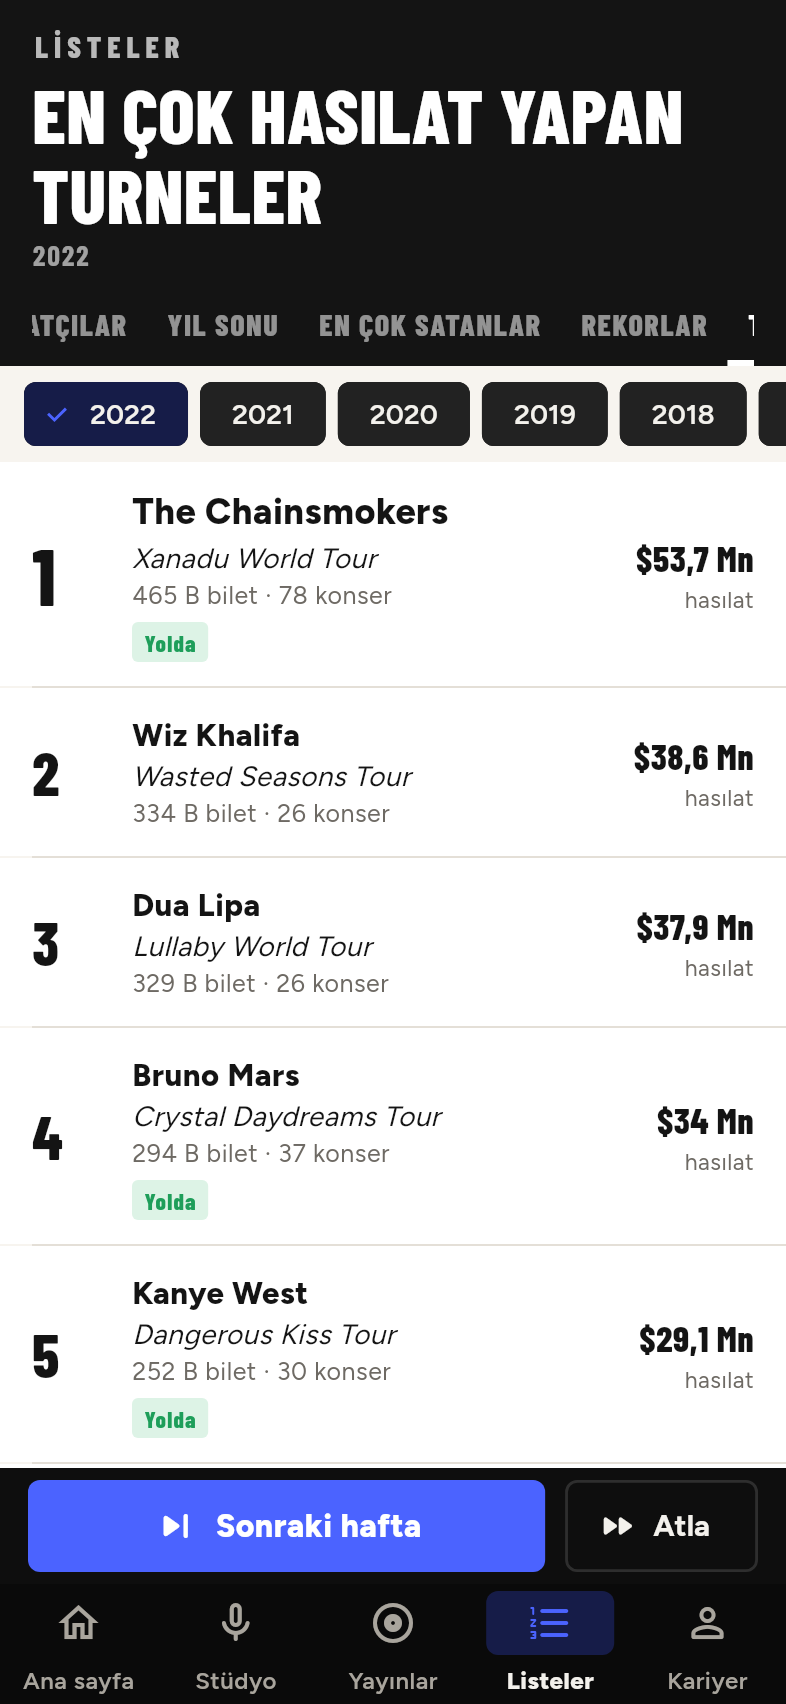
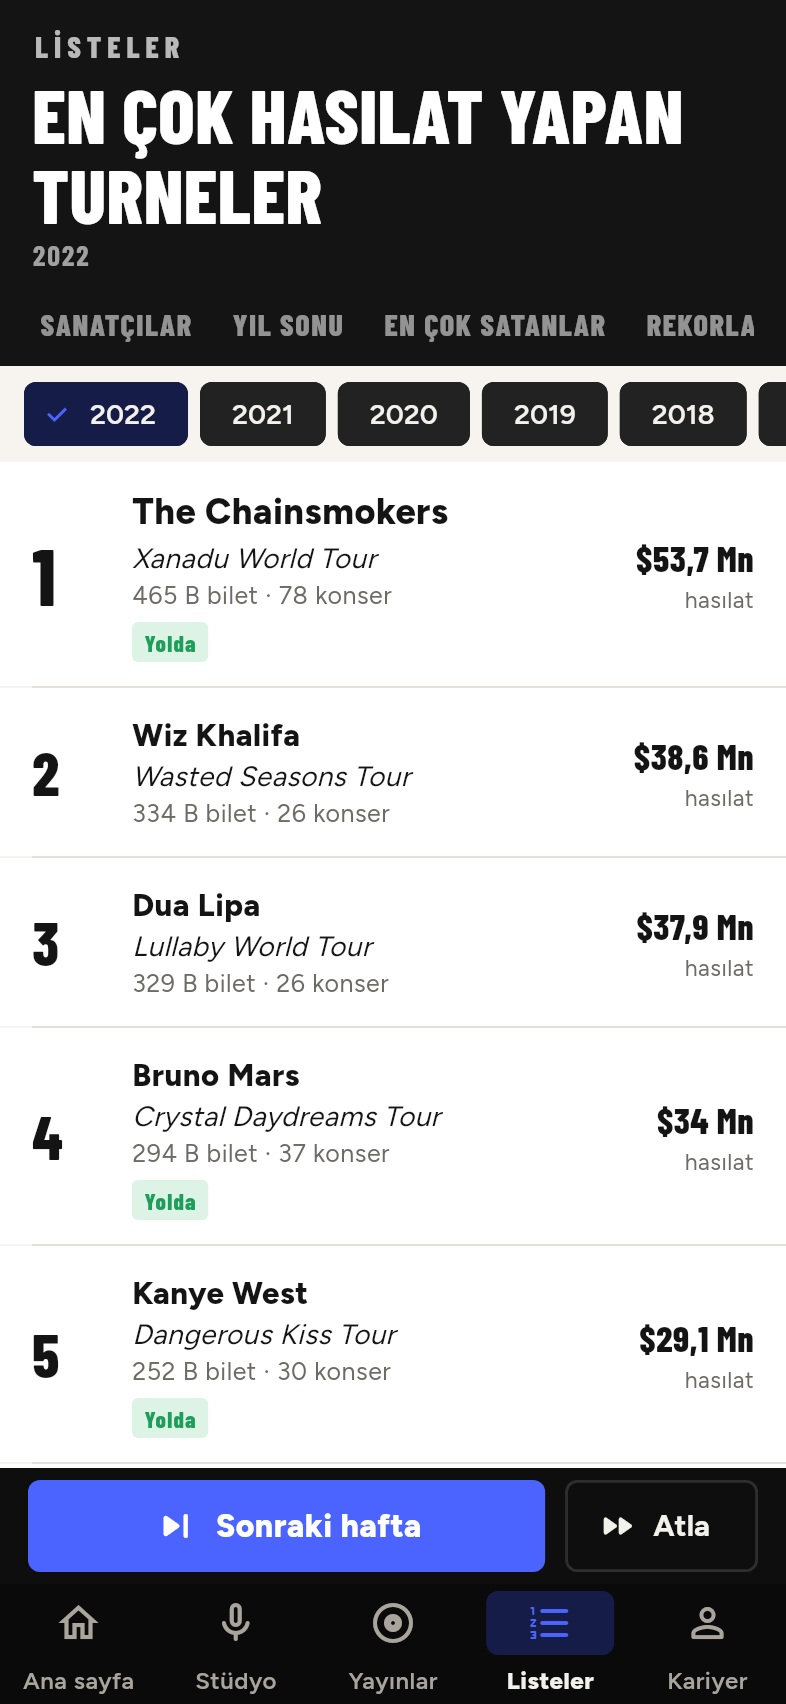
US Streaming Songs and Digital Song Sales charts; balance check (K166, K167)
Two Billboard-style component charts of 50: US streams alone (2013+)
and US downloads alone (2005+), with their tabs from their first year,
chart records on song pages and peak/entry news. Old saves start them
empty.

Balance probe after K152-K166 (normal, 3 worlds): superstar 2016 and
unknown 2010 careers match K151.

Claude-Session: https://claude.ai/code/session_01UqeaYiXbKvrTFgHV44HcjP

Changed region(s): [[0.0305, 0.1866, 0.9771, 0.2177]]

diff --git a/app/lib/screens/charts_tab.dart b/app/lib/screens/charts_tab.dart
@@ -30,6 +30,8 @@ const _magazineCharts = [
   Charts.ukSongs,
   Charts.ukAlbums,
   Charts.usRadio,
+  Charts.usStreaming,
+  Charts.usDigital,
 ];
 
 /// The box-office board in the chart tabs (docs K77).
@@ -215,12 +217,12 @@ class _ChartsTabState extends State<ChartsTab> {
                               : _chart == _bestSellersChart
                                   ? l.chartBestSellers
                                   : _chart == _recordsChart
-                                  ? l.chartRecords
-                                  : _chart == _artistsChart
-                                      ? l.chartTopArtists
-                                      : _chart == _musicShowChart
-                                          ? l.chartMusicShow
-                                          : fmt.chart(_chart))
+                                      ? l.chartRecords
+                                      : _chart == _artistsChart
+                                          ? l.chartTopArtists
+                                          : _chart == _musicShowChart
+                                              ? l.chartMusicShow
+                                              : fmt.chart(_chart))
                       .toUpperCase(),
                   style: const TextStyle(
                       fontFamily: AppFonts.condensed,
@@ -236,15 +238,16 @@ class _ChartsTabState extends State<ChartsTab> {
                               : _chart == _bestSellersChart
                                   ? l.bestSellersSub
                                   : _chart == _recordsChart
-                                  ? (_records == null
-                                      ? ''
-                                      : l.recordsSince(_recordsSince))
-                                  : _chart == _artistsChart ||
-                                          _chart == _musicShowChart
-                                      ? l.weekOf(DateFormat.yMMMMd(l.localeName)
-                                          .format(chartDate(
-                                              context.career.week - 1)))
-                                      : l.weekOf(date))
+                                      ? (_records == null
+                                          ? ''
+                                          : l.recordsSince(_recordsSince))
+                                      : _chart == _artistsChart ||
+                                              _chart == _musicShowChart
+                                          ? l.weekOf(
+                                              DateFormat.yMMMMd(l.localeName)
+                                                  .format(chartDate(
+                                                      context.career.week - 1)))
+                                          : l.weekOf(date))
                       .toUpperCase(),
                   style: const TextStyle(
                       fontFamily: AppFonts.condensed,
@@ -259,11 +262,14 @@ class _ChartsTabState extends State<ChartsTab> {
                   scrollDirection: Axis.horizontal,
                   children: [
                     for (final id in _magazineCharts)
-                      _ChartTab(
-                        label: fmt.chartShort(id),
-                        selected: _chart == id,
-                        onTap: () => _select(id),
-                      ),
+                      // The streaming and download charts start in their
+                      // year (docs K166).
+                      if (Charts.all[id].activeIn(context.career.week - 1))
+                        _ChartTab(
+                          label: fmt.chartShort(id),
+                          selected: _chart == id,
+                          onTap: () => _select(id),
+                        ),
                     // K-pop artists get their music show (docs K114).
                     if (context.career.player.genre == MusicShow.genre)
                       _ChartTab(

diff --git a/packages/game/test/game_test.dart b/packages/game/test/game_test.dart
@@ -1404,6 +1404,39 @@ void main() {
       g.close();
     });
 
+    test('US streaming and download charts (K166)', () {
+      var g = GameSession.start(slots, _setup(startYear: 2010));
+      final ids = [for (final c in g.activeCharts) c.id];
+      expect(ids, contains(Charts.usDigital));
+      expect(ids, isNot(contains(Charts.usStreaming)));
+      g.close();
+      g = GameSession.start(
+          slots,
+          _setup(
+              startYear: 2015,
+              tier: StartTier.superstar,
+              money: StartMoney.millionaire,
+              premium: true));
+      final p = g.world.player!;
+      p.moneyCents = 1 << 40;
+      p.creativeEnergy = 100;
+      final id = g.writeSong(budget: BudgetTier.high).id;
+      g.releaseSingle(id);
+      g.advanceWeeks(2, stop: SkipStop.never);
+      final streaming = g.chart(Charts.usStreaming).rows;
+      final digital = g.chart(Charts.usDigital).rows;
+      expect(streaming, hasLength(50));
+      expect(digital, hasLength(50));
+      // Ranked by US streams alone.
+      for (var i = 1; i < streaming.length; i++) {
+        expect(streaming[i].points, lessThanOrEqualTo(streaming[i - 1].points));
+      }
+      // Its points are its US streams.
+      final top = streaming.first;
+      expect(top.points, closeTo(top.streams, top.streams * 0.01));
+      g.close();
+    });
+
     test('an album rollout (K165)', () {
       var g = GameSession.start(
           slots,

diff --git a/packages/simulation_core/lib/src/config/charts.dart b/packages/simulation_core/lib/src/config/charts.dart
@@ -13,7 +13,11 @@ enum ChartMarket {
   platformEurope,
 
   /// US radio airplay audience (docs K129).
-  usRadio
+  usRadio,
+
+  /// US streams, and US download sales (docs K166).
+  usStreaming,
+  usDigital,
 }
 
 /// A chart definition. Names are fictional (no real chart or platform
@@ -63,6 +67,10 @@ abstract final class Charts {
 
   /// US radio airplay (docs K129).
   static const usRadio = 9;
+
+  /// The Hot 100's parts (docs K166): streams alone, downloads alone.
+  static const usStreaming = 10;
+  static const usDigital = 11;
 
   static const all = <ChartDef>[
     ChartDef(
@@ -130,9 +138,23 @@ abstract final class Charts {
         kind: ChartKind.songs,
         market: ChartMarket.usRadio,
         size: 50),
+    ChartDef(
+        id: usStreaming,
+        key: 'chart.us.streaming',
+        kind: ChartKind.songs,
+        market: ChartMarket.usStreaming,
+        size: 50,
+        startYear: 2013),
+    ChartDef(
+        id: usDigital,
+        key: 'chart.us.digital',
+        kind: ChartKind.songs,
+        market: ChartMarket.usDigital,
+        size: 50,
+        startYear: 2005),
   ];
 
-  static const count = 10;
+  static const count = 12;
 
   /// Song charts whose positions feed back into exposure and dormancy.
   static const mainSongCharts = [usSongs, ukSongs, globalSongs];

diff --git a/app/test/screenshots_test.dart b/app/test/screenshots_test.dart
@@ -707,6 +707,16 @@ void main() {
     await tester.pumpAndSettle();
     await tester.tap(_ci('US Radio'));
     await shot(tester, '08i_radio_chart');
+    // The Hot 100's parts (docs K166).
+    final streamingTab = _ci('US Streaming');
+    await tester.scrollUntilVisible(streamingTab, 200,
+        scrollable: find
+            .byWidgetPredicate((w) =>
+                w is Scrollable && w.axisDirection == AxisDirection.right)
+            .first);
+    await tester.pumpAndSettle();
+    await tester.tap(streamingTab);
+    await shot(tester, '08m_streaming_chart');
     await tab(tester, 'Career');
     // Record money by source (docs K145).
     final income = _ci('Record money by source');

diff --git a/app/lib/core/format.dart b/app/lib/core/format.dart
@@ -212,6 +212,8 @@ class Fmt {
           l.chartPlatform(platformName, l.regionNorthAmerica),
         Charts.platformEurope => l.chartPlatform(platformName, l.regionEurope),
         Charts.usRadio => l.chartUsRadio,
+        Charts.usStreaming => l.chartUsStreaming,
+        Charts.usDigital => l.chartUsDigital,
         _ => '?',
       };
 
@@ -230,6 +232,8 @@ class Fmt {
         Charts.ukAlbums => l.chartShortUkAlbums,
         Charts.globalAlbums => l.chartShortGlobalAlbums,
         Charts.usRadio => l.chartShortUsRadio,
+        Charts.usStreaming => l.chartShortUsStreaming,
+        Charts.usDigital => l.chartShortUsDigital,
         _ => chart(id),
       };
 

diff --git a/packages/game/lib/src/views.dart b/packages/game/lib/src/views.dart
@@ -1053,7 +1053,9 @@ class ChartView {
     // A by-region number as the chart's market sees it.
     double inMarket(double Function(int r) byRegion) => switch (market) {
           ChartMarket.us ||
-          ChartMarket.usRadio =>
+          ChartMarket.usRadio ||
+          ChartMarket.usStreaming ||
+          ChartMarket.usDigital =>
             CountryShares.usOfNorthAmerica(artist.homeCountry) *
                 byRegion(Region.northAmerica.index),
           ChartMarket.uk => CountryShares.ukOfEurope(artist.homeCountry) *

diff --git a/packages/simulation_core/lib/src/simulator.dart b/packages/simulation_core/lib/src/simulator.dart
@@ -719,6 +719,9 @@ class Simulator {
       songPts[Charts.platformEurope][i] = st[eu];
       // Radio airplay: the US audience of its plays (docs K129).
       songPts[Charts.usRadio][i] = us * rd[na];
+      // The Hot 100's parts (docs K166).
+      songPts[Charts.usStreaming][i] = us * st[na];
+      songPts[Charts.usDigital][i] = us * dw[na];
       // A song caught with bought streams counts half for a while.
       final weight = StreamingTools.chartWeight(w, s);
       if (weight < 1) {

diff --git a/packages/simulation_core/lib/src/world.dart b/packages/simulation_core/lib/src/world.dart
@@ -327,6 +327,8 @@ class World {
     return switch (market) {
       ChartMarket.us ||
       ChartMarket.usRadio ||
+      ChartMarket.usStreaming ||
+      ChartMarket.usDigital ||
       ChartMarket.platformNorthAmerica =>
         (market != ChartMarket.platformNorthAmerica
                 ? CountryShares.usOfNorthAmerica(home)

diff --git a/packages/game/lib/src/game_session.dart b/packages/game/lib/src/game_session.dart
@@ -3038,6 +3038,8 @@ class GameSession {
     Charts.ukSongs,
     Charts.globalSongs,
     Charts.usRadio,
+    Charts.usStreaming,
+    Charts.usDigital,
   ];
   static const _albumCharts = [
     Charts.usAlbums,

diff --git a/tools/l10n/gen_arb.py b/tools/l10n/gen_arb.py
@@ -1244,6 +1244,10 @@ k('radioUpgradeHint','Raise the radio push while stations are still deciding (fi
 # US radio chart (K129)
 k('chartUsRadio','US Radio Songs','ABD Radyo Şarkıları')
 k('chartShortUsRadio','US Radio','ABD Radyo')
+k('chartUsStreaming','US Streaming Songs','ABD Streaming Şarkıları')
+k('chartShortUsStreaming','US Streaming','ABD Streaming')
+k('chartUsDigital','US Digital Song Sales','ABD Dijital Şarkı Satışları')
+k('chartShortUsDigital','US Digital','ABD Dijital')
 k('radioChartLine','{audience} listeners on the radio','Radyoda {audience} dinleyici', audience='String')
 
 # Streamify audience (K130)

diff --git a/docs/README.md b/docs/README.md
@@ -190,6 +190,8 @@ Bu kararlar alınmıştır; değiştirmek için bilinçli bir revizyon gerekir.
 | K163 | **Dijital mağazada indirim (Born This Way hamlesi, 2004+):** Çıkmış bir albümün sayfasında "Fruit Tunes'ta indirim": bir haftalığına **$7,99** (fiyatın %80'i, dijital satış ×1,6), **$3,99** (%40, ×4) ya da **$0,99** (%12, ×12). Albüm satışlarının dijital payı yıla göre (2004 %1, 2008 %15, 2010 %27, 2012 %37, 2014–16 %41–42, 2019 %35); yalnız o pay katlanır, fiziksel satış aynı kalır. O haftaki kopyalar ortalama daha az öder (örnek, 2012: haftada 29K → 155K kopya, gelir biraz artıyor ama kopya başına çok düşüyor). Sekiz haftada bir; katalogdaki albümü yeniden canlandırır. **2011 kuralı:** Billboard, ilk 4 haftasında $3,49'un altında satılan albümleri saymadığı için $0,99 o haftalarda kapalı. Albüm sayfasında üç düğme, "Bu hafta indirimde" etiketi ve neden kapalı olduğu. Kayıt v46. |
 | K164 | **Ücretli hayran kulübü (Patreon gibi):** Kariyer sekmesinde "Hayran kulübü": 20K çekirdek hayranla, $20K kurulumla açılır. Aylık ücret **$3 / $5 / $10**; üye sayısı her hafta tutabileceği sayıya %10 yaklaşır: çekirdek hayran × (0,4 + sadakat) × katılım oranı (%3 / %2 / %1) × **aktiflik** (26 haftadan uzun yeni çıkış yoksa yılda %100 düşerek en az %40). Gelir haftada üye × aylık ücret × 12/52, doğrudan sanatçıya gelir (plak şirketi payı ve avans geri ödemesi yok, menajer payı var). Üyeler sadakati besler (üyeler hayranların %2'si ve üstündeyse haftada +0,002) ve her yeni albüm ya da EP'yi **önceden sipariş eder** (üyelerin %60'ı, ilk haftaya). Ücret istendiği zaman değiştirilebilir; sayfada her ücretle tahmini üye sayısı. 1K, 10K, 100K, 1M üyede haber. Örnek (süperstar, $5): 12 haftada ~45K üye, haftada ~$50K. Kayıt: dünya meta 'fanClub'. |
 | K165 | **Albüm çıkış planı:** Oyuncunun albüm ve EP'lerinde (canlı albüm ve Greatest Hits hariç) altı adım: **ilk single** albümden en az 4 hafta önce (son 26 hafta içinde), **ikinci single** (aynı pencerede iki single), **duyuru** en az 4 hafta önce, **klip** (şarkılarından birine), **TikTak tanıtımı** (2019+, snippet) ve **editörlere öneri** (streaming döneminde). Albüm çıktığında yapılan adımların payı kadar heyecan eklenir: eksiksiz plan **+%15** (fan satışı ve olay alıcıları bununla büyür). Sürpriz çıkış duyuru adımını kaçırır ama kendi şok etkisini alır (K124). Yayınlar sekmesinde yaklaşan albümün planı (ileri tarihli single'lar zamanında çıkacaksa sayılır), albüm sayfasında sonuç ("Çıkış planı 5/6: çıkışta +%13 heyecan") ve adım etiketleri. Kayıt v47. |
+| K166 | **ABD Streaming ve Dijital Satış listeleri (Billboard'un alt listeleri):** Listeler sekmesinde iki yeni 50'lik liste: **ABD Streaming Şarkıları** (2013+, yalnız ABD stream'leri) ve **ABD Dijital Şarkı Satışları** (2005+, yalnız ABD indirmeleri). Hot 100'ün parçaları: bir şarkı radyoda zayıf ama stream'de güçlü olabilir. Kendi yılından önce sekmesi görünmez. Şarkı sayfasındaki liste kayıtları, zirve ve giriş haberleri bu listeler için de çalışır. Eski kayıtlarda bu listeler boş başlar. |
+| K167 | **Denge kontrolü (K152–K166 sonrası, career_probe, normal mod, 3 dünya, medyan):** Süperstar 2016: yıl 1–3 #1 sayısı 4 → 2 → 1, albüm ilk haftası global 1,0–1,1M (ABD 586–617K; çıkış planı ile biraz yukarı), para 5,2M → 18,0M (K151: 17,8M). Bilinmeyen 2010: 3. yıl en iyi ABD #3 ve 132K hayran, 4. yılda ABD #1, albüm ilk haftası 133K, şirket seviyesi 2; 5. yılda #1'ler ve 1,3M hayran. Varsayılan kariyer dengesi K151 ile aynı; yeni araçlar oyuncunun seçimi. |
 | K82 | **Her platformda kendi profilin (F48):** Platform ekranlarının üstünde "Senin sayfan": fotoğraf (Streamify'da Streamify fotoğrafı), ad, mavi tik (fame %10+ veya 100K+ takipçi), takipçi sayısı (ViewTube'da abone), streaming uygulamalarında aylık dinleyici, bu haftaki rakam ve en büyük şarkın. Takipçiler sadık hayran ve sıradan dinleyiciden hesaplanır, platform açıldıktan sonra 4 yılda tam oturur: Streamify %85 hayran + %5 dinleyici; Fruit Music %25 + %2 (Kuzey Amerika'da daha çok); ViewTube %60 + %6 (müzik videosu sayısıyla ×0,8–1,2); NoiseCloud %10 + %0,8; TikTak %25 + %6 (karizmayla ×0,6–1,4). Fruit Tunes indirme mağazası, takipçisi yok. Streamify sanatçı sayfasındaki takipçi sayısı da aynı kuraldan geliyor (rakipler dahil). |
 | K23 | ChatGPT planındaki ekranlar, rekorlar, kampanyalar, finans, bildirimler, ödüller, Kolay mod ve 10 performans kuralı dokümanlara taşındı. |
 
